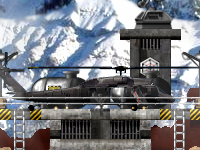
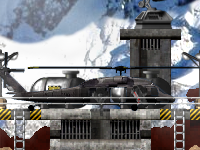
- Alle Dekoschleusen, welche als Verstecke dienen können, entfernt oder verschoben. * Island Strike: Map an Schleuse modifiziert, um falschen Betreten zu verhindern. * Titelbilder aktualisiert.

diff --git a/ModernCombatFINALTRY.c4f/CMC_GroundZero.c4s/Script.c b/ModernCombatFINALTRY.c4f/CMC_GroundZero.c4s/Script.c
@@ -336,10 +336,6 @@ func CreateDecoration()
   CreateObject(PLNT, 1790, 310, -1);
   CreateObject(PLNT, 2600, 460, -1);
 
-  //Dekoschleusen
-  CreateObject(GAT1, 105, 340, -1);
-  CreateObject(GAT1, 2695, 340, -1);
-
   //Schilder
   CreateObject(WLSN, 200, 380, -1);
   CreateObject(WLSN, 2600, 380, -1);

diff --git a/ModernCombatFINALTRY.c4f/CMC_Laguna.c4s/Script.c b/ModernCombatFINALTRY.c4f/CMC_Laguna.c4s/Script.c
@@ -256,10 +256,6 @@ func CreateDecoration()
   CreateObject(FLGH, 560, 290, -1)->SetRotation(-90);
   CreateObject(FLGH, 705, 290, -1)->SetRotation(90);
 
-  //Dekoschleusen
-  CreateObject(GAT1, 690, 645, -1);
-  CreateObject(GAT1, 2940, 495, -1);
-
   //Schild
   CreateObject(WLSN, 560, 690, -1);
 

diff --git a/ModernCombatFINALTRY.c4f/CMC_Yuki.c4s/Script.c b/ModernCombatFINALTRY.c4f/CMC_Yuki.c4s/Script.c
@@ -489,9 +489,6 @@ func CreateDecoration()
   CreateObject(ETLT, 1050, 705, -1);
   CreateObject(ETLT, 1365, 495, -1);
 
-  //Dekoschleuse
-  CreateObject(GAT1, 1160, 690, -1);
-
   //Gasflaschen
   CreateObject(GSBL, 585, 610, -1)->AutoRespawn();
   CreateObject(GSBL, 1000, 580, -1)->AutoRespawn();

diff --git a/ModernCombatFINALTRY.c4f/CMC_ColdCash.c4s/Script.c b/ModernCombatFINALTRY.c4f/CMC_ColdCash.c4s/Script.c
@@ -238,9 +238,6 @@ func CreateDecoration()
   CreateObject(VENT, 1500, 490, -1)->SetCon(60);
   CreateObject(VENT, 4040, 490, -1)->SetCon(60);
 
-  //Dekoschleuse
-  CreateObject(GAT1, 2820, 480, -1);
-
   //Monitore
   CreateObject(MNI2, 1530, 492, -1);
   CreateObject(MNI2, 4010, 492, -1);

diff --git a/ModernCombatFINALTRY.c4f/CMC_BabelTower.c4s/Script.c b/ModernCombatFINALTRY.c4f/CMC_BabelTower.c4s/Script.c
@@ -438,9 +438,6 @@ func CreateDecoration()
   CreateObject(RADR, 460, 320, -1);
   CreateObject(RADR, 710, 320, -1);
 
-  //Dekoschleuse
-  CreateObject(GAT1, 585, 1050, -1);
-
   //Flutlichter
   CreateObject(FLGH, 460, 320, -1)->SetRotation(65);
   CreateObject(FLGH, 710, 320, -1);

diff --git a/ModernCombatFINALTRY.c4f/CMC_BroadcastStation.c4s/Script.c b/ModernCombatFINALTRY.c4f/CMC_BroadcastStation.c4s/Script.c
@@ -338,7 +338,6 @@ func CreateDecoration()
   CreateObject(BSH2, 1600, 365, -1);
 
   //Dekoschleusen
-  CreateObject(GAT1, 390, 670, -1);
   CreateObject(GAT1, 845, 590, -1);
   CreateObject(GAT1, 1700, 175, -1);
 
